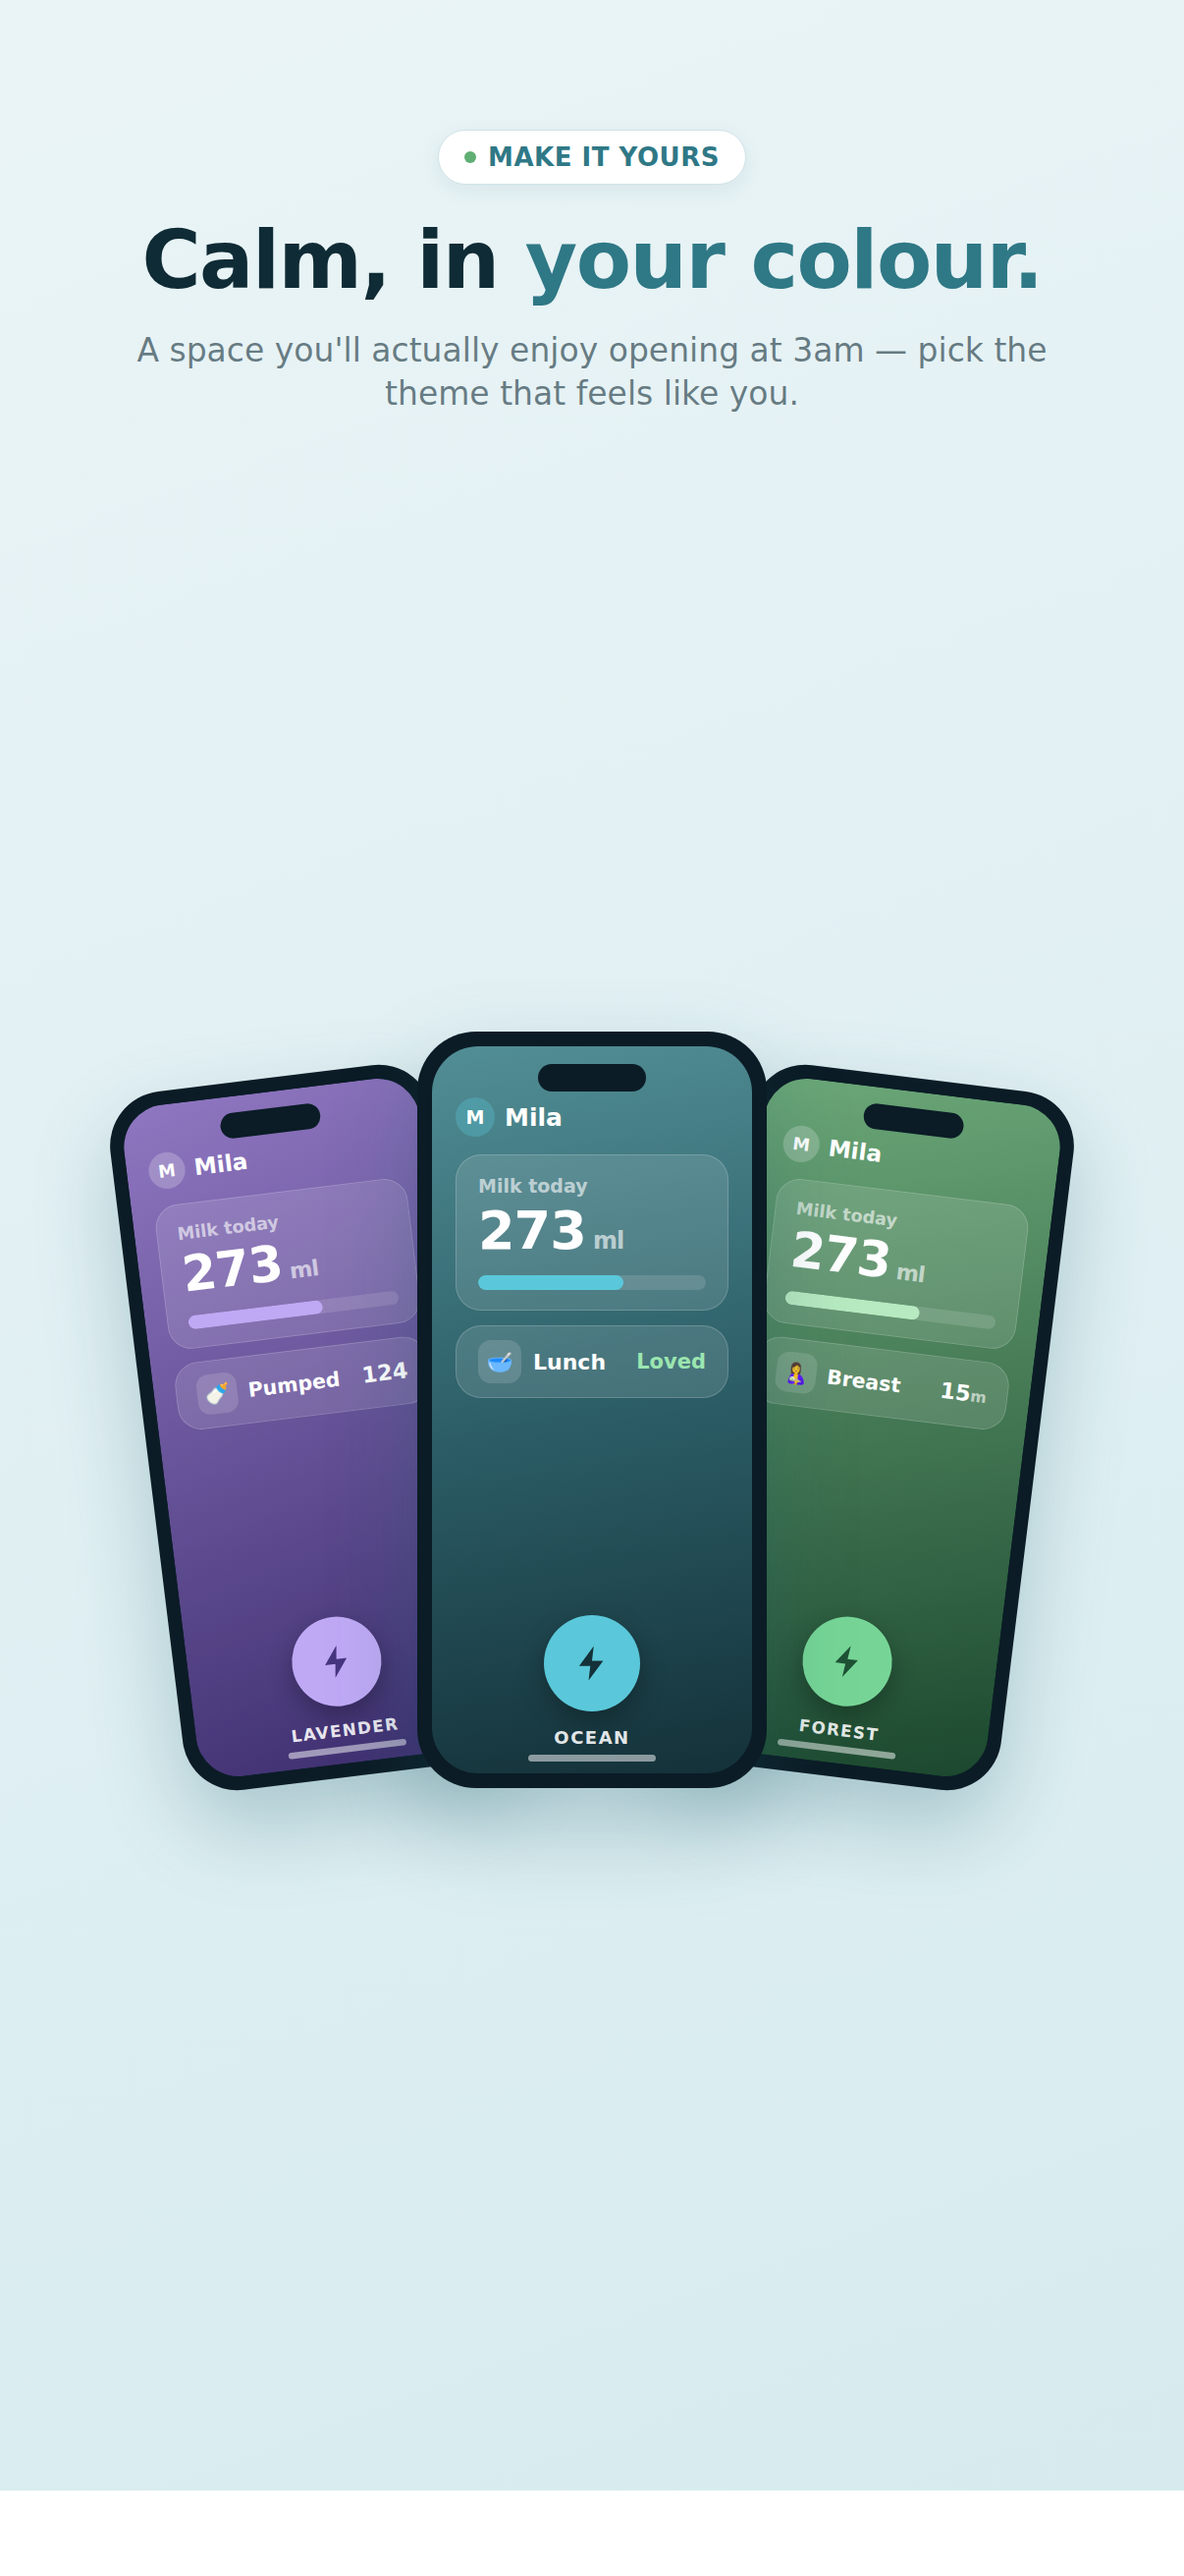
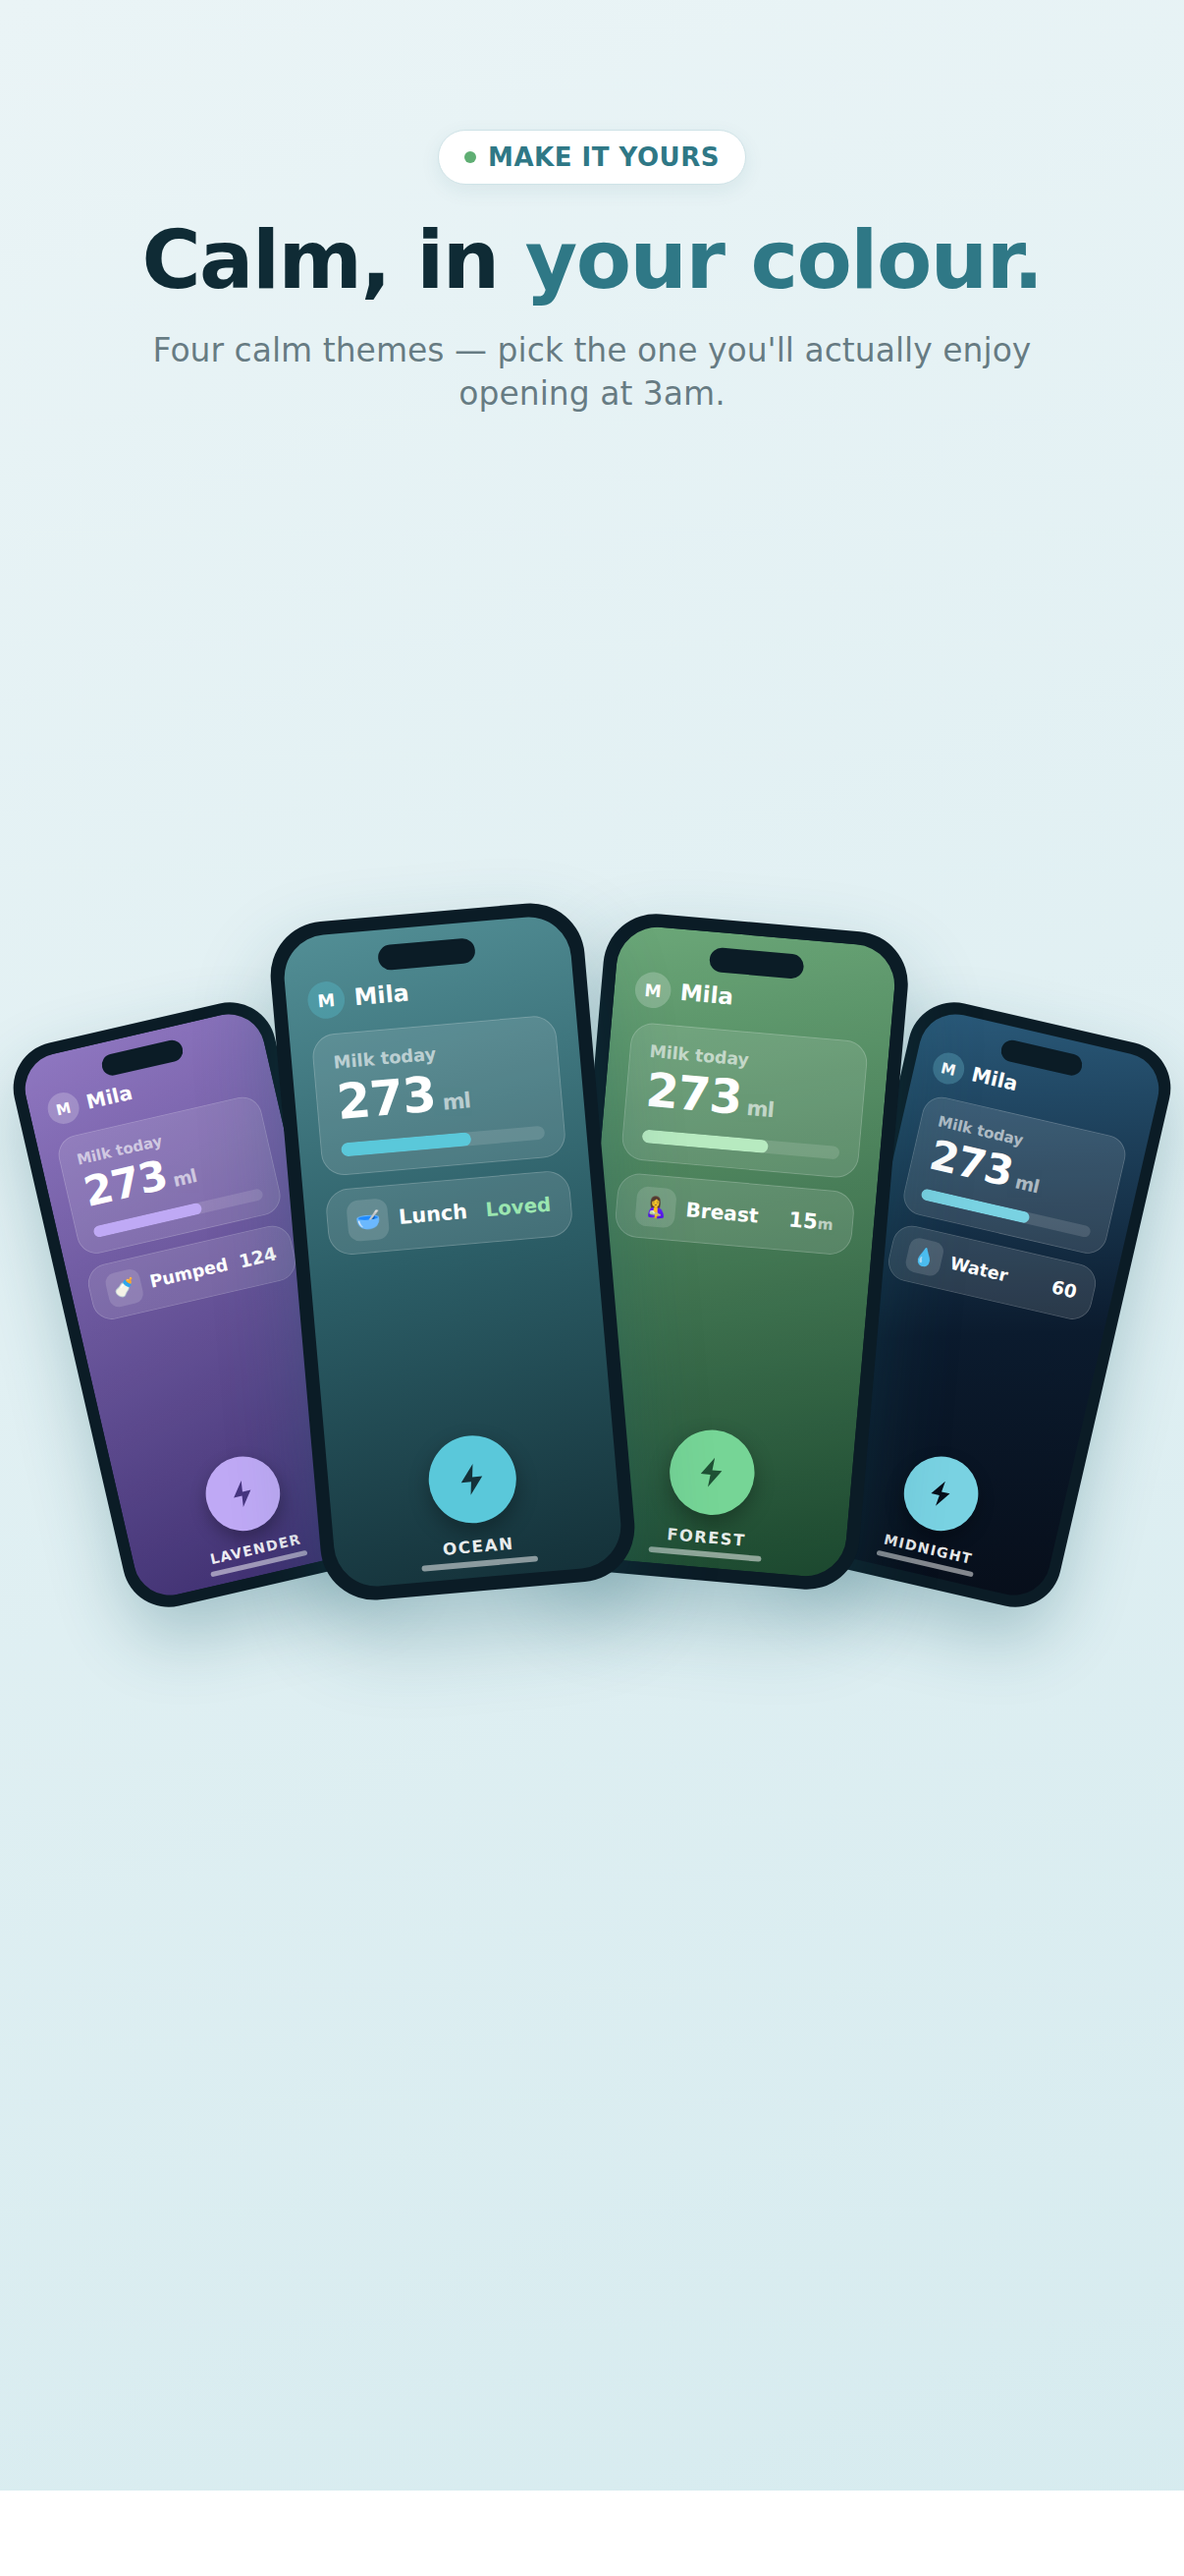
Themes frame: show all four real themes
Add Midnight (dark) alongside Lavender/Ocean/Forest — a four-phone fan,
each in its real gradient + accent, labels clearing. Showing the dark
theme also matches the research (users look for dark mode).

Changed region(s): [[0.0, 0.3398, 1.0, 0.7414], [0.1227, 0.1236, 0.8897, 0.1545]]

diff --git a/marketing/mockups/themes.html b/marketing/mockups/themes.html
@@ -1,59 +1,72 @@
 <!DOCTYPE html><html><head><meta charset="UTF-8"><link rel="stylesheet" href="base.css">
 <style>
-.themes-row{position:absolute;top:1050px;left:0;right:0;display:flex;justify-content:center;align-items:center;}
-.mini{width:356px;height:770px;border-radius:60px;background:#0B1C26;padding:15px;
-  box-shadow:0 40px 90px rgba(28,94,107,0.28);position:relative;}
-.mini.l{transform:rotate(-7deg) translate(64px,26px) scale(0.93);z-index:1;}
-.mini.c{z-index:3;}
-.mini.r{transform:rotate(7deg) translate(-64px,26px) scale(0.93);z-index:1;}
-.ms{width:100%;height:100%;border-radius:47px;overflow:hidden;position:relative;padding:52px 24px 26px;display:flex;flex-direction:column;}
-.mnotch{position:absolute;top:18px;left:50%;transform:translateX(-50%);width:110px;height:28px;background:#0B1C26;border-radius:15px;z-index:2;}
-.mhd{display:flex;align-items:center;gap:10px;color:#fff;font-size:25px;font-weight:800;margin-bottom:18px;}
-.mav{width:40px;height:40px;border-radius:50%;display:flex;align-items:center;justify-content:center;font-size:19px;font-weight:800;color:#fff;}
-.mcard{background:rgba(255,255,255,0.12);border:1px solid rgba(255,255,255,0.18);border-radius:26px;padding:20px 22px;margin-bottom:15px;}
-.mlabel{color:rgba(255,255,255,0.62);font-size:19px;font-weight:700;}
-.mbig{color:#fff;font-size:54px;font-weight:800;letter-spacing:-1px;margin:3px 0 14px;}
-.mbig .u{font-size:24px;opacity:0.6;}
-.mtrack{height:15px;border-radius:8px;background:rgba(255,255,255,0.13);overflow:hidden;}
+.themes-row{position:absolute;top:920px;left:0;right:0;height:900px;}
+.mini{position:absolute;top:0;left:50%;margin-left:-162px;width:324px;height:700px;border-radius:56px;
+  background:#0B1C26;padding:14px;box-shadow:0 38px 84px rgba(28,94,107,0.30);}
+.mini.a{transform:translateX(-400px) translateY(58px) rotate(-13deg) scale(0.84);z-index:1;}
+.mini.b{transform:translateX(-142px) translateY(4px) rotate(-5deg) scale(0.99);z-index:4;}
+.mini.c{transform:translateX(142px) translateY(4px) rotate(5deg) scale(0.96);z-index:3;}
+.mini.d{transform:translateX(400px) translateY(58px) rotate(13deg) scale(0.84);z-index:2;}
+.ms{width:100%;height:100%;border-radius:44px;overflow:hidden;position:relative;padding:48px 22px 22px;display:flex;flex-direction:column;}
+.mnotch{position:absolute;top:16px;left:50%;transform:translateX(-50%);width:100px;height:26px;background:#0B1C26;border-radius:14px;z-index:2;}
+.mhd{display:flex;align-items:center;gap:10px;color:#fff;font-size:24px;font-weight:800;margin-bottom:16px;}
+.mav{width:38px;height:38px;border-radius:50%;display:flex;align-items:center;justify-content:center;font-size:18px;font-weight:800;color:#fff;}
+.mcard{background:rgba(255,255,255,0.12);border:1px solid rgba(255,255,255,0.18);border-radius:24px;padding:18px 20px;margin-bottom:14px;}
+.mlabel{color:rgba(255,255,255,0.62);font-size:18px;font-weight:700;}
+.mbig{color:#fff;font-size:50px;font-weight:800;letter-spacing:-1px;margin:2px 0 13px;}
+.mbig .u{font-size:22px;opacity:0.6;}
+.mtrack{height:14px;border-radius:8px;background:rgba(255,255,255,0.13);overflow:hidden;}
 .mfill{height:100%;border-radius:8px;width:64%;}
-.mrow{display:flex;align-items:center;gap:12px;padding:9px 0;}
-.mico{width:44px;height:44px;border-radius:13px;background:rgba(255,255,255,0.14);display:flex;align-items:center;justify-content:center;font-size:22px;}
-.mname{color:#fff;font-size:22px;font-weight:800;}
-.mamt{margin-left:auto;color:#fff;font-size:24px;font-weight:800;}
-.mbtn{margin:auto auto 0;width:98px;height:98px;border-radius:50%;display:flex;align-items:center;justify-content:center;box-shadow:0 10px 26px rgba(0,0,0,0.28);}
-.mtheme{text-align:center;color:rgba(255,255,255,0.9);font-size:18px;font-weight:800;letter-spacing:1.5px;text-transform:uppercase;margin-top:16px;}
-.mhomebar{position:absolute;bottom:12px;left:50%;transform:translateX(-50%);width:130px;height:7px;border-radius:5px;background:rgba(255,255,255,0.5);}
+.mrow{display:flex;align-items:center;gap:11px;padding:8px 0;}
+.mico{width:42px;height:42px;border-radius:12px;background:rgba(255,255,255,0.14);display:flex;align-items:center;justify-content:center;font-size:21px;}
+.mname{color:#fff;font-size:21px;font-weight:800;}
+.mamt{margin-left:auto;color:#fff;font-size:22px;font-weight:800;}
+.mbtn{margin:auto auto 0;width:90px;height:90px;border-radius:50%;display:flex;align-items:center;justify-content:center;box-shadow:0 9px 22px rgba(0,0,0,0.3);}
+.mtheme{text-align:center;color:rgba(255,255,255,0.92);font-size:17px;font-weight:800;letter-spacing:1.5px;text-transform:uppercase;margin-top:14px;}
+.mhomebar{position:absolute;bottom:11px;left:50%;transform:translateX(-50%);width:120px;height:6px;border-radius:4px;background:rgba(255,255,255,0.5);}
 </style></head><body>
 <div class="frame">
   <div class="cap">
     <div class="kick"><span class="dot"></span> Make it yours</div>
     <h1>Calm, in <span class="g">your colour.</span></h1>
-    <p>A space you'll actually enjoy opening at 3am — pick the theme that feels like you.</p>
+    <p>Four calm themes — pick the one you'll actually enjoy opening at 3am.</p>
   </div>
   <div class="themes-row">
-    <div class="mini l"><div class="ms" style="background:linear-gradient(rgba(0,0,0,0.13),rgba(0,0,0,0.13)),linear-gradient(165deg,#A488DD,#46357F);">
+    <!-- Lavender -->
+    <div class="mini a"><div class="ms" style="background:linear-gradient(rgba(0,0,0,0.13),rgba(0,0,0,0.13)),linear-gradient(165deg,#A488DD,#46357F);">
       <div class="mnotch"></div>
       <div class="mhd"><span class="mav" style="background:rgba(255,255,255,0.22);">M</span> Mila</div>
       <div class="mcard"><div class="mlabel">Milk today</div><div class="mbig">273<span class="u"> ml</span></div><div class="mtrack"><div class="mfill" style="background:#BFA9F5;"></div></div></div>
-      <div class="mcard" style="padding:5px 22px;"><div class="mrow"><div class="mico">🍼</div><div class="mname">Pumped</div><div class="mamt">124</div></div></div>
-      <div class="mbtn" style="background:#BFA9F5;"><svg width="42" height="42" viewBox="0 0 24 24" fill="#46357F"><path d="M13 2L4.5 13.5H11l-1 8.5 8.5-11.5H12z"/></svg></div>
+      <div class="mcard" style="padding:4px 20px;"><div class="mrow"><div class="mico">🍼</div><div class="mname">Pumped</div><div class="mamt">124</div></div></div>
+      <div class="mbtn" style="background:#BFA9F5;"><svg width="38" height="38" viewBox="0 0 24 24" fill="#46357F"><path d="M13 2L4.5 13.5H11l-1 8.5 8.5-11.5H12z"/></svg></div>
       <div class="mtheme">Lavender</div><div class="mhomebar"></div>
     </div></div>
-    <div class="mini c"><div class="ms" style="background:linear-gradient(170deg,#528E95,#2C5E67 50%,#143139);">
+    <!-- Ocean -->
+    <div class="mini b"><div class="ms" style="background:linear-gradient(170deg,#528E95,#2C5E67 50%,#143139);">
       <div class="mnotch"></div>
       <div class="mhd"><span class="mav" style="background:rgba(90,200,218,0.32);">M</span> Mila</div>
       <div class="mcard"><div class="mlabel">Milk today</div><div class="mbig">273<span class="u"> ml</span></div><div class="mtrack"><div class="mfill" style="background:#5AC8DA;"></div></div></div>
-      <div class="mcard" style="padding:5px 22px;"><div class="mrow"><div class="mico">🥣</div><div class="mname">Lunch</div><div class="mamt" style="font-size:21px;color:#9BE6B0;">Loved</div></div></div>
-      <div class="mbtn" style="background:#5AC8DA;"><svg width="42" height="42" viewBox="0 0 24 24" fill="#143139"><path d="M13 2L4.5 13.5H11l-1 8.5 8.5-11.5H12z"/></svg></div>
+      <div class="mcard" style="padding:4px 20px;"><div class="mrow"><div class="mico">🥣</div><div class="mname">Lunch</div><div class="mamt" style="font-size:20px;color:#9BE6B0;">Loved</div></div></div>
+      <div class="mbtn" style="background:#5AC8DA;"><svg width="38" height="38" viewBox="0 0 24 24" fill="#143139"><path d="M13 2L4.5 13.5H11l-1 8.5 8.5-11.5H12z"/></svg></div>
       <div class="mtheme">Ocean</div><div class="mhomebar"></div>
     </div></div>
-    <div class="mini r"><div class="ms" style="background:linear-gradient(rgba(0,0,0,0.13),rgba(0,0,0,0.13)),linear-gradient(165deg,#7BC08A,#1F5235);">
+    <!-- Forest -->
+    <div class="mini c"><div class="ms" style="background:linear-gradient(rgba(0,0,0,0.13),rgba(0,0,0,0.13)),linear-gradient(165deg,#7BC08A,#1F5235);">
       <div class="mnotch"></div>
       <div class="mhd"><span class="mav" style="background:rgba(255,255,255,0.22);">M</span> Mila</div>
       <div class="mcard"><div class="mlabel">Milk today</div><div class="mbig">273<span class="u"> ml</span></div><div class="mtrack"><div class="mfill" style="background:#B7EAC0;"></div></div></div>
-      <div class="mcard" style="padding:5px 22px;"><div class="mrow"><div class="mico">🤱</div><div class="mname">Breast</div><div class="mamt">15<span style="font-size:17px;opacity:0.6;">m</span></div></div></div>
-      <div class="mbtn" style="background:#76D596;"><svg width="42" height="42" viewBox="0 0 24 24" fill="#1F5235"><path d="M13 2L4.5 13.5H11l-1 8.5 8.5-11.5H12z"/></svg></div>
+      <div class="mcard" style="padding:4px 20px;"><div class="mrow"><div class="mico">🤱</div><div class="mname">Breast</div><div class="mamt">15<span style="font-size:16px;opacity:0.6;">m</span></div></div></div>
+      <div class="mbtn" style="background:#76D596;"><svg width="38" height="38" viewBox="0 0 24 24" fill="#1F5235"><path d="M13 2L4.5 13.5H11l-1 8.5 8.5-11.5H12z"/></svg></div>
       <div class="mtheme">Forest</div><div class="mhomebar"></div>
+    </div></div>
+    <!-- Midnight -->
+    <div class="mini d"><div class="ms" style="background:linear-gradient(165deg,#2A5A7A,#0B1B2E 55%,#070E1A);">
+      <div class="mnotch"></div>
+      <div class="mhd"><span class="mav" style="background:rgba(121,210,226,0.28);">M</span> Mila</div>
+      <div class="mcard"><div class="mlabel">Milk today</div><div class="mbig">273<span class="u"> ml</span></div><div class="mtrack"><div class="mfill" style="background:#79D2E2;"></div></div></div>
+      <div class="mcard" style="padding:4px 20px;"><div class="mrow"><div class="mico">💧</div><div class="mname">Water</div><div class="mamt">60</div></div></div>
+      <div class="mbtn" style="background:#79D2E2;"><svg width="38" height="38" viewBox="0 0 24 24" fill="#070E1A"><path d="M13 2L4.5 13.5H11l-1 8.5 8.5-11.5H12z"/></svg></div>
+      <div class="mtheme">Midnight</div><div class="mhomebar"></div>
     </div></div>
   </div>
 </div>
